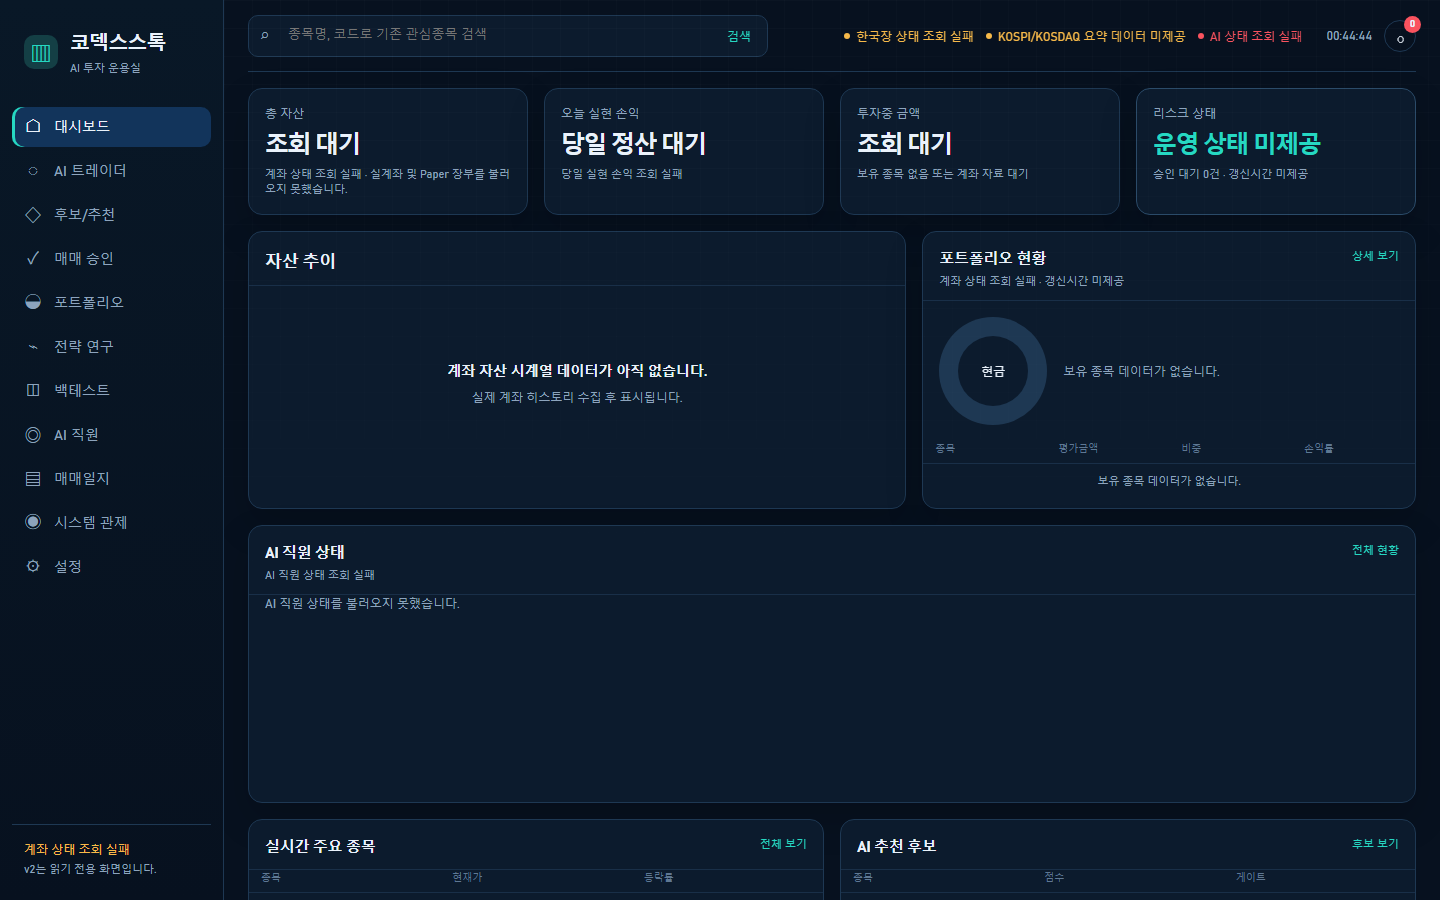
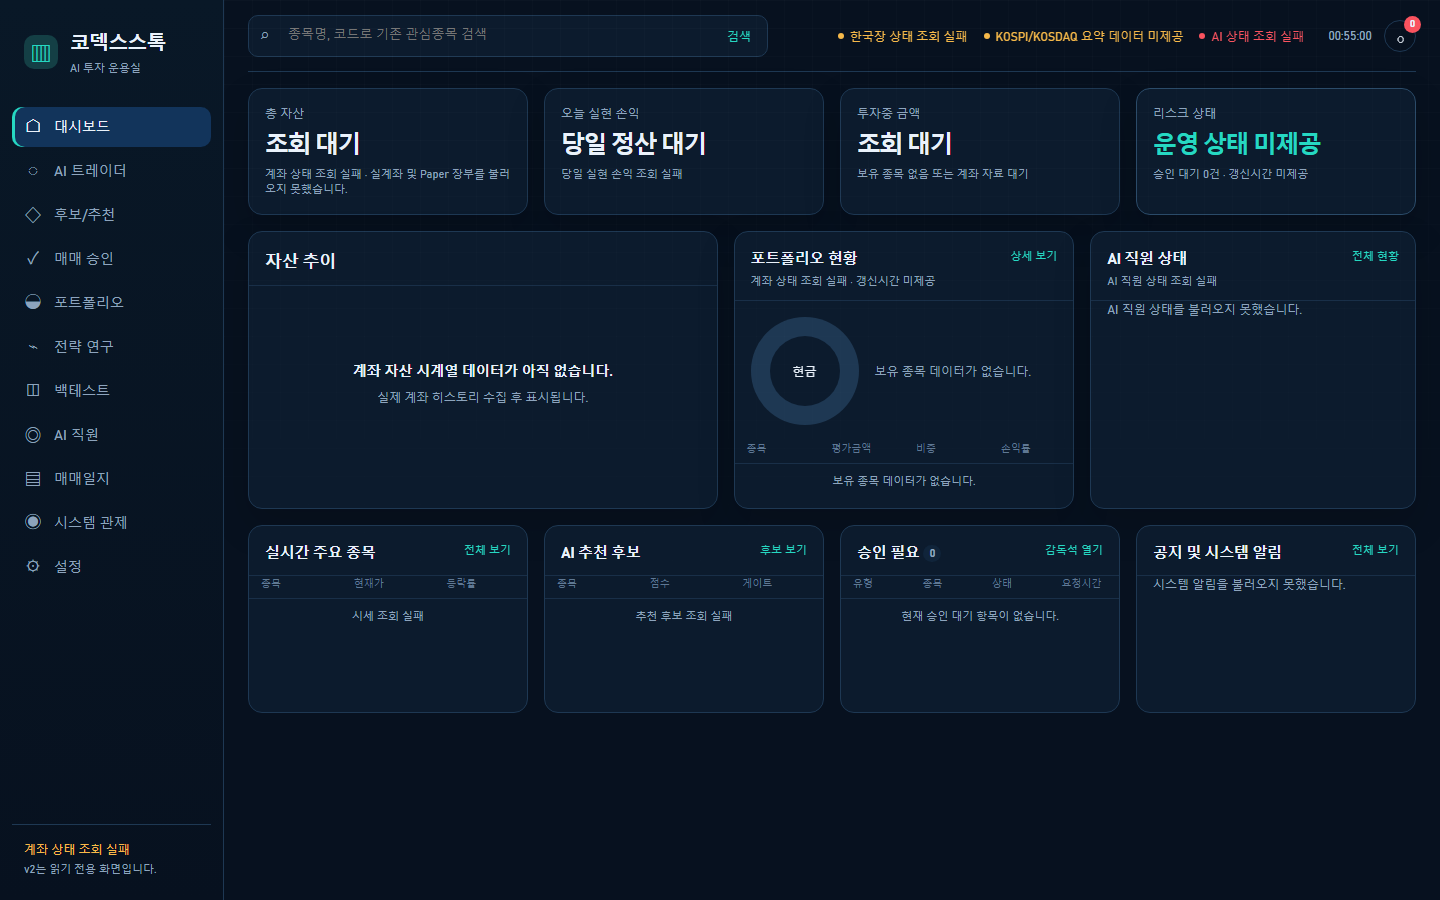
Keep dashboard operations visible at 1440

diff --git a/app/web/ui-v2/dashboard.css b/app/web/ui-v2/dashboard.css
@@ -108,6 +108,6 @@ body[data-ui-v2="true"] *, body[data-ui-v2="true"] *::before, body[data-ui-v2="t
 .v2-alert:last-child { border-bottom: 0; }
 .v2-alert strong { display: block; color: var(--v2-text); font-size: 11px; }.v2-alert p { margin: 4px 0; color: var(--v2-muted); font-size: 11px; line-height: 1.38; }.v2-alert small { color: var(--v2-subtle); font-size: 10px; }
 
-@media (max-width: 1500px) { .v2-primary-grid { grid-template-columns: minmax(340px, 1.2fr) minmax(280px, .9fr); }.v2-staff-card { grid-column: 1 / -1; }.v2-staff-list { display: grid; grid-template-columns: repeat(2, minmax(0, 1fr)); column-gap: var(--v2-space-4); max-height: none; }.v2-operations-grid { grid-template-columns: repeat(2, minmax(0, 1fr)); } .v2-header-status { gap: var(--v2-space-3); } }
+@media (max-width: 1320px) { .v2-operations-grid { grid-template-columns: repeat(3, minmax(0, 1fr)); } .v2-header-status { gap: var(--v2-space-3); } }
 @media (max-width: 1180px) { .v2-shell { grid-template-columns: minmax(0, 1fr); }.v2-sidebar { min-width: 0; position: static; height: auto; padding: var(--v2-space-3); border-right: 0; border-bottom: 1px solid var(--v2-border); }.v2-brand, .v2-sidebar-foot { display: none; }.v2-nav { display: flex; min-width: 0; width: 100%; max-width: 100%; overflow-x: auto; }.v2-nav button { width: auto; flex: 0 0 auto; }.v2-main { padding: 0 var(--v2-space-4) var(--v2-space-5); }.v2-topbar { grid-template-columns: minmax(260px, 1fr) auto; }.v2-header-status { display: none; }.v2-kpis { grid-template-columns: repeat(2, minmax(0, 1fr)); }.v2-primary-grid { grid-template-columns: minmax(0, 1fr); }.v2-staff-card { grid-column: auto; } }
 @media (max-width: 720px) { .v2-main { padding: 0 var(--v2-space-3) var(--v2-space-4); }.v2-topbar { grid-template-columns: 1fr auto; gap: var(--v2-space-2); }.v2-search button { display: none; }.v2-kpis, .v2-operations-grid, .v2-staff-list { grid-template-columns: 1fr; }.v2-kpi { min-height: 106px; }.v2-allocation { grid-template-columns: 92px minmax(0, 1fr); }.v2-donut { width: 92px; }.v2-donut::before { width: 60px; }.v2-table-scroll { overflow-x: auto; }.v2-table { min-width: 300px; } }

diff --git a/tests/test_ui_redesign_v2_contract.py b/tests/test_ui_redesign_v2_contract.py
@@ -69,6 +69,13 @@ class UiRedesignV2ContractTests(unittest.TestCase):
         self.assertIn('if (state.timer || state.clockTimer) return', source)
         self.assertIn('global.clearInterval(state.timer)', source)
 
+    def test_1440_keeps_three_primary_columns_and_four_operational_cards(self):
+        styles = (WEB_ROOT / "ui-v2" / "dashboard.css").read_text(encoding="utf-8")
+
+        self.assertNotIn("@media (max-width: 1500px)", styles)
+        self.assertIn(".v2-primary-grid { grid-template-columns: minmax(380px, 1.24fr)", styles)
+        self.assertIn(".v2-operations-grid { grid-template-columns: repeat(4, minmax(0, 1fr))", styles)
+
     def test_v2_has_tokens_and_dashboard_only_scope(self):
         tokens = (WEB_ROOT / "ui-v2" / "tokens.css").read_text(encoding="utf-8")
         styles = (WEB_ROOT / "ui-v2" / "dashboard.css").read_text(encoding="utf-8")
